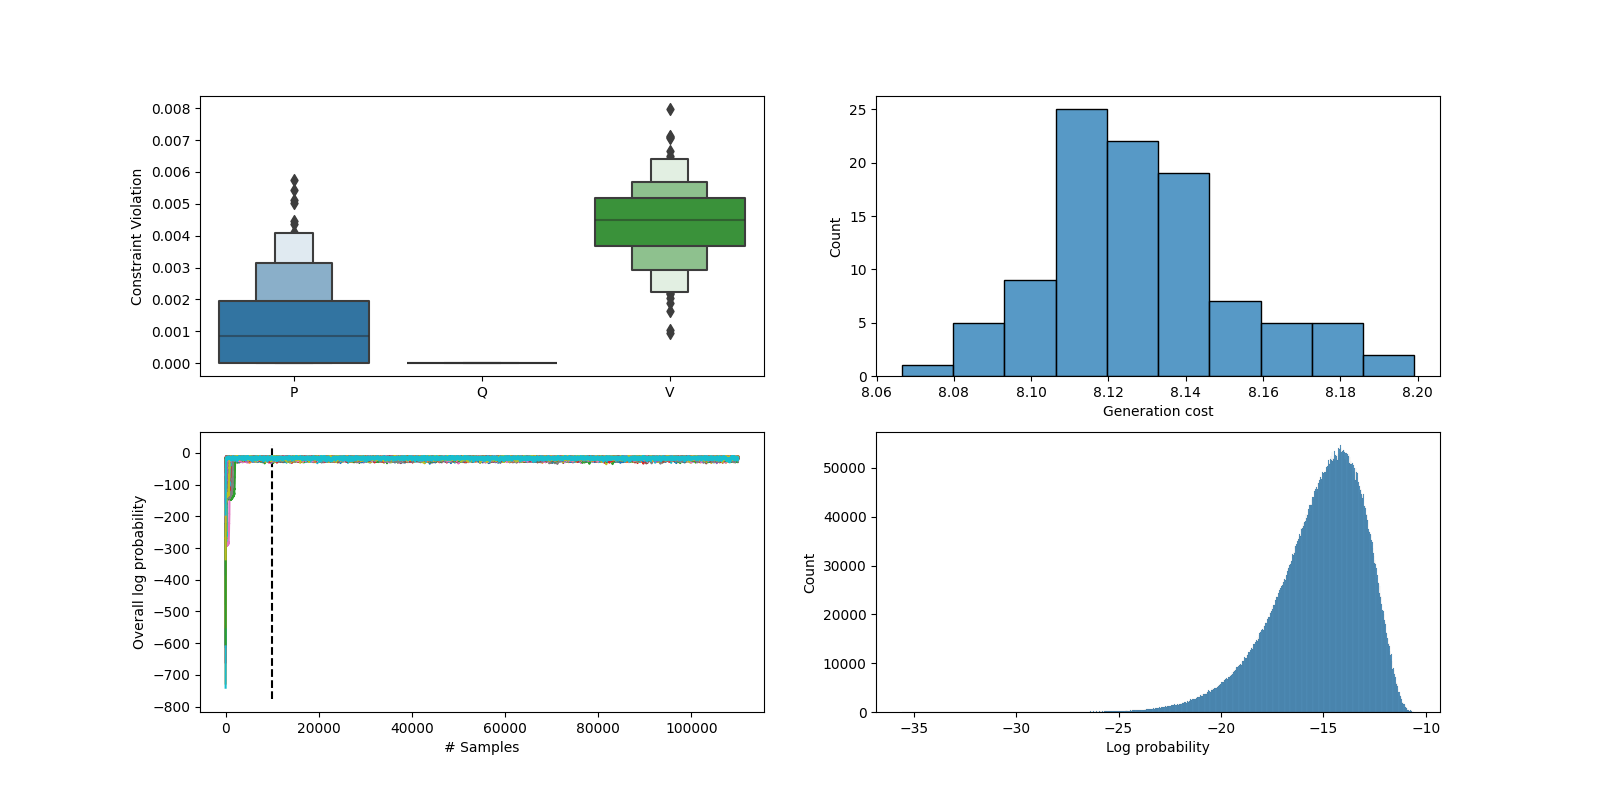
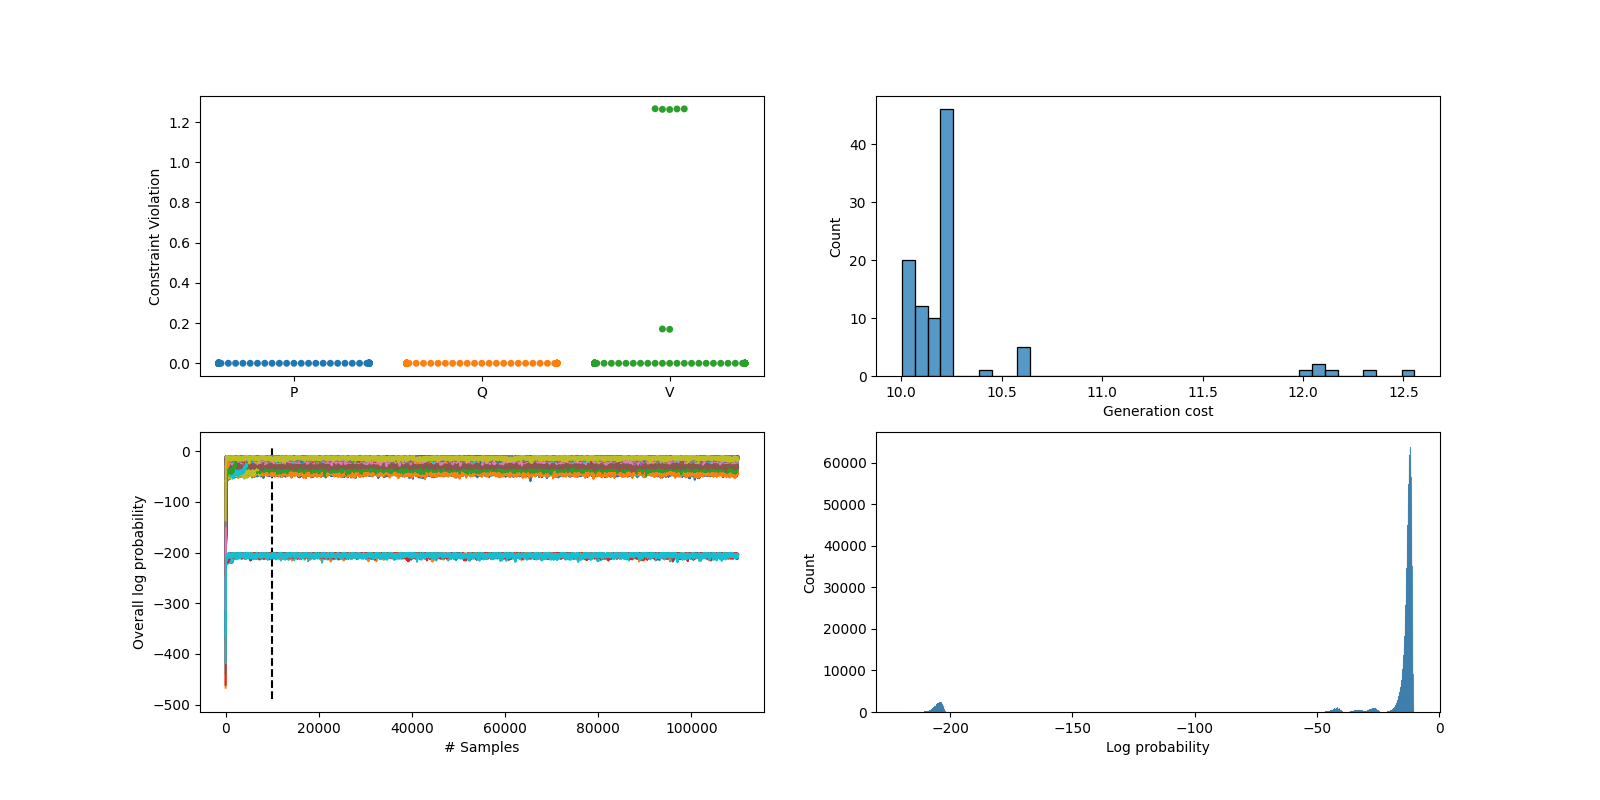
Started implementing 14 bus, but may not be working

diff --git a/architect/systems/power_systems/example_systems/acopf/ieee_14_bus.py b/architect/systems/power_systems/example_systems/acopf/ieee_14_bus.py
@@ -1,0 +1,83 @@
+import jax.numpy as jnp
+from beartype import beartype
+
+from architect.systems.power_systems.acopf import ACOPF, Network
+
+
+@beartype
+def make_14_bus_network(penalty: float = 100.0) -> ACOPF:
+    """
+    Define a test system based on the IEEE 14-bus system
+    https://icseg.iti.illinois.edu/ieee-14-bus-system/
+
+    We remove the loads at bus 1, 2, and 5 so that each node has either
+    only loads or only generators.
+
+    args:
+        penalty coefficient
+    """
+    n_bus = 14
+    n_line = 20
+    nominal_network = Network(
+        lines=jnp.array(
+            [
+                [0, 1],
+                [0, 4],
+                [1, 4],
+                [1, 3],
+                [1, 2],
+                [2, 3],
+                [3, 4],
+                [3, 6],
+                [3, 8],
+                [4, 5],
+                [5, 10],
+                [5, 11],
+                [5, 12],
+                [6, 7],
+                [6, 8],
+                [8, 9],
+                [8, 13],
+                [9, 10],
+                [11, 12],
+                [12, 13],
+            ]
+        ),
+        line_conductances=jnp.array([0.01 for _ in range(n_line)]),
+        line_susceptances=jnp.array([1.0 for _ in range(n_line)]),
+        shunt_conductances=jnp.array([0.0 for _ in range(n_bus)]),
+        shunt_susceptances=jnp.array([0.0 for _ in range(n_bus)]),
+    )
+    generator_buses = [0, 1, 2, 5, 7]
+    generator_max = 5.0
+    generator_min = 0.0
+    max_Q = 2.0
+    load_min = -2.0
+    load_max = -1.0
+    return ACOPF(
+        nominal_network,
+        # Limits
+        bus_active_limits=jnp.array(
+            [
+                [generator_min, generator_max]
+                if i in generator_buses
+                else [load_min, load_max]
+                for i in range(n_bus)
+            ]
+        ),
+        bus_reactive_limits=jnp.array([[-max_Q, max_Q] for _ in range(n_bus)]),
+        bus_voltage_limits=jnp.array([[0.9, 1.1] for _ in range(n_bus)]),
+        # Costs
+        bus_active_linear_costs=jnp.array(
+            [1.0 if i in generator_buses else -10.0 for i in range(n_bus)]
+        ),
+        bus_active_quadratic_costs=jnp.array([0.0 for _ in range(n_bus)]),
+        bus_reactive_linear_costs=jnp.array(
+            [0.1 if i in generator_buses else 0.0 for i in range(n_bus)]
+        ),
+        constraint_penalty=penalty,
+        # Failures
+        prob_line_failure=jnp.array([0.1 for _ in range(n_line)]),
+        line_conductance_stddev=jnp.array([0.1 for _ in range(n_line)]),
+        line_susceptance_stddev=jnp.array([0.1 for _ in range(n_line)]),
+    )

diff --git a/architect/systems/power_systems/example_systems/acopf/simple_3_bus.py b/architect/systems/power_systems/example_systems/acopf/simple_3_bus.py
@@ -1,0 +1,45 @@
+import jax.numpy as jnp
+from beartype import beartype
+
+from architect.systems.power_systems.acopf import ACOPF, Network
+
+
+@beartype
+def make_3_bus_network(penalty: float = 100.0) -> ACOPF:
+    """
+    Define a 3-bus test system.
+
+    This network has a load bus (0) connected to 2 generator buses (1 and 2).
+
+    The generators at bus 1 and 2 can supply 1 and 0.5 units of active power each,
+    but the generator at bus 2 is much cheaper.
+
+    The load demands between 0.8 and 1.0 units of active power and has a large benefit
+    to model an inelastic load.
+
+    args:
+        penalty coefficient
+    """
+    nominal_network = Network(
+        lines=jnp.array([[0, 1], [0, 2]]),
+        line_conductances=jnp.array([0.0, 0.0]),
+        line_susceptances=jnp.array([1.0, 1.0]),
+        shunt_conductances=jnp.array([0.0, 0.0, 0.0]),
+        shunt_susceptances=jnp.array([0.0, 0.0, 0.0]),
+    )
+    return ACOPF(
+        nominal_network,
+        # Limits
+        bus_active_limits=jnp.array([[-1.0, -0.8], [0.0, 1.0], [0.0, 0.5]]),
+        bus_reactive_limits=jnp.array([[-2.0, 2.0], [-2.0, 2.0], [-2.0, 2.0]]),
+        bus_voltage_limits=jnp.array([[0.9, 1.1], [0.9, 1.1], [0.9, 1.1]]),
+        # Costs
+        bus_active_linear_costs=jnp.array([-10.0, 5.0, 1.0]),
+        bus_active_quadratic_costs=jnp.array([0.0, 0.0, 0.0]),
+        bus_reactive_linear_costs=jnp.array([0.0, 0.1, 0.1]),
+        constraint_penalty=penalty,
+        # Failures
+        prob_line_failure=jnp.array([0.1, 0.1]),
+        line_conductance_stddev=jnp.array([0.1, 0.1]),
+        line_susceptance_stddev=jnp.array([0.1, 0.1]),
+    )

diff --git a/architect/experiments/power_systems/acopf/14_bus_acopf.py b/architect/experiments/power_systems/acopf/14_bus_acopf.py
@@ -12,8 +12,8 @@ from beartype.typing import Tuple, Union
 from jaxtyping import Array, Float, Integer, jaxtyped
 
 from architect.systems.power_systems.acopf import Dispatch, Network
-from architect.systems.power_systems.example_systems.acopf.simple_3_bus import (
-    make_3_bus_network,
+from architect.systems.power_systems.example_systems.acopf.ieee_14_bus import (
+    make_14_bus_network,
 )
 
 
@@ -49,7 +49,7 @@ def inference_loop(
 if __name__ == "__main__":
     # Make the test system
     L = 100.0
-    sys = make_3_bus_network(L)
+    sys = make_14_bus_network(L)
 
     # Let's start by trying to solve the ACOPF problem for the nominal system
     network = sys.nominal_network
@@ -59,9 +59,9 @@ if __name__ == "__main__":
 
     # Make a MALA kernel for MCMC sampling
     mala_step_size = 1e-4
-    n_samples = 100_000
-    warmup_samples = 10_000
-    n_chains = 100
+    n_samples = 10_000_000
+    warmup_samples = 1_000_000
+    n_chains = 1
     mala = blackjax.mala(
         lambda x: prior_logprob(x) + posterior_logprob(x), mala_step_size
     )
@@ -127,7 +127,7 @@ if __name__ == "__main__":
 
     plt.savefig(
         (
-            f"plts/acopf/3bus/L_{L:0.1e}_{n_samples}_samples_"
+            f"plts/acopf/14bus/L_{L:0.1e}_{n_samples}_samples_"
             f"{n_chains}_chains_lr_{mala_step_size:0.1e}.png"
         )
     )

diff --git a/architect/experiments/power_systems/dispatch/3_bus_contingency.py b/architect/experiments/power_systems/dispatch/3_bus_contingency.py
@@ -19,7 +19,7 @@ from architect.components.specifications.stl.formula import (
 from architect.systems.power_systems.centralized_dynamic_dispatch import (
     CentralizedDynamicDispatch,
 )
-from architect.systems.power_systems.example_systems import make_3_bus_system
+from architect.systems.power_systems.example_systems.dispatch import make_3_bus_system
 
 
 def make_service_constraint() -> STLFormula:
